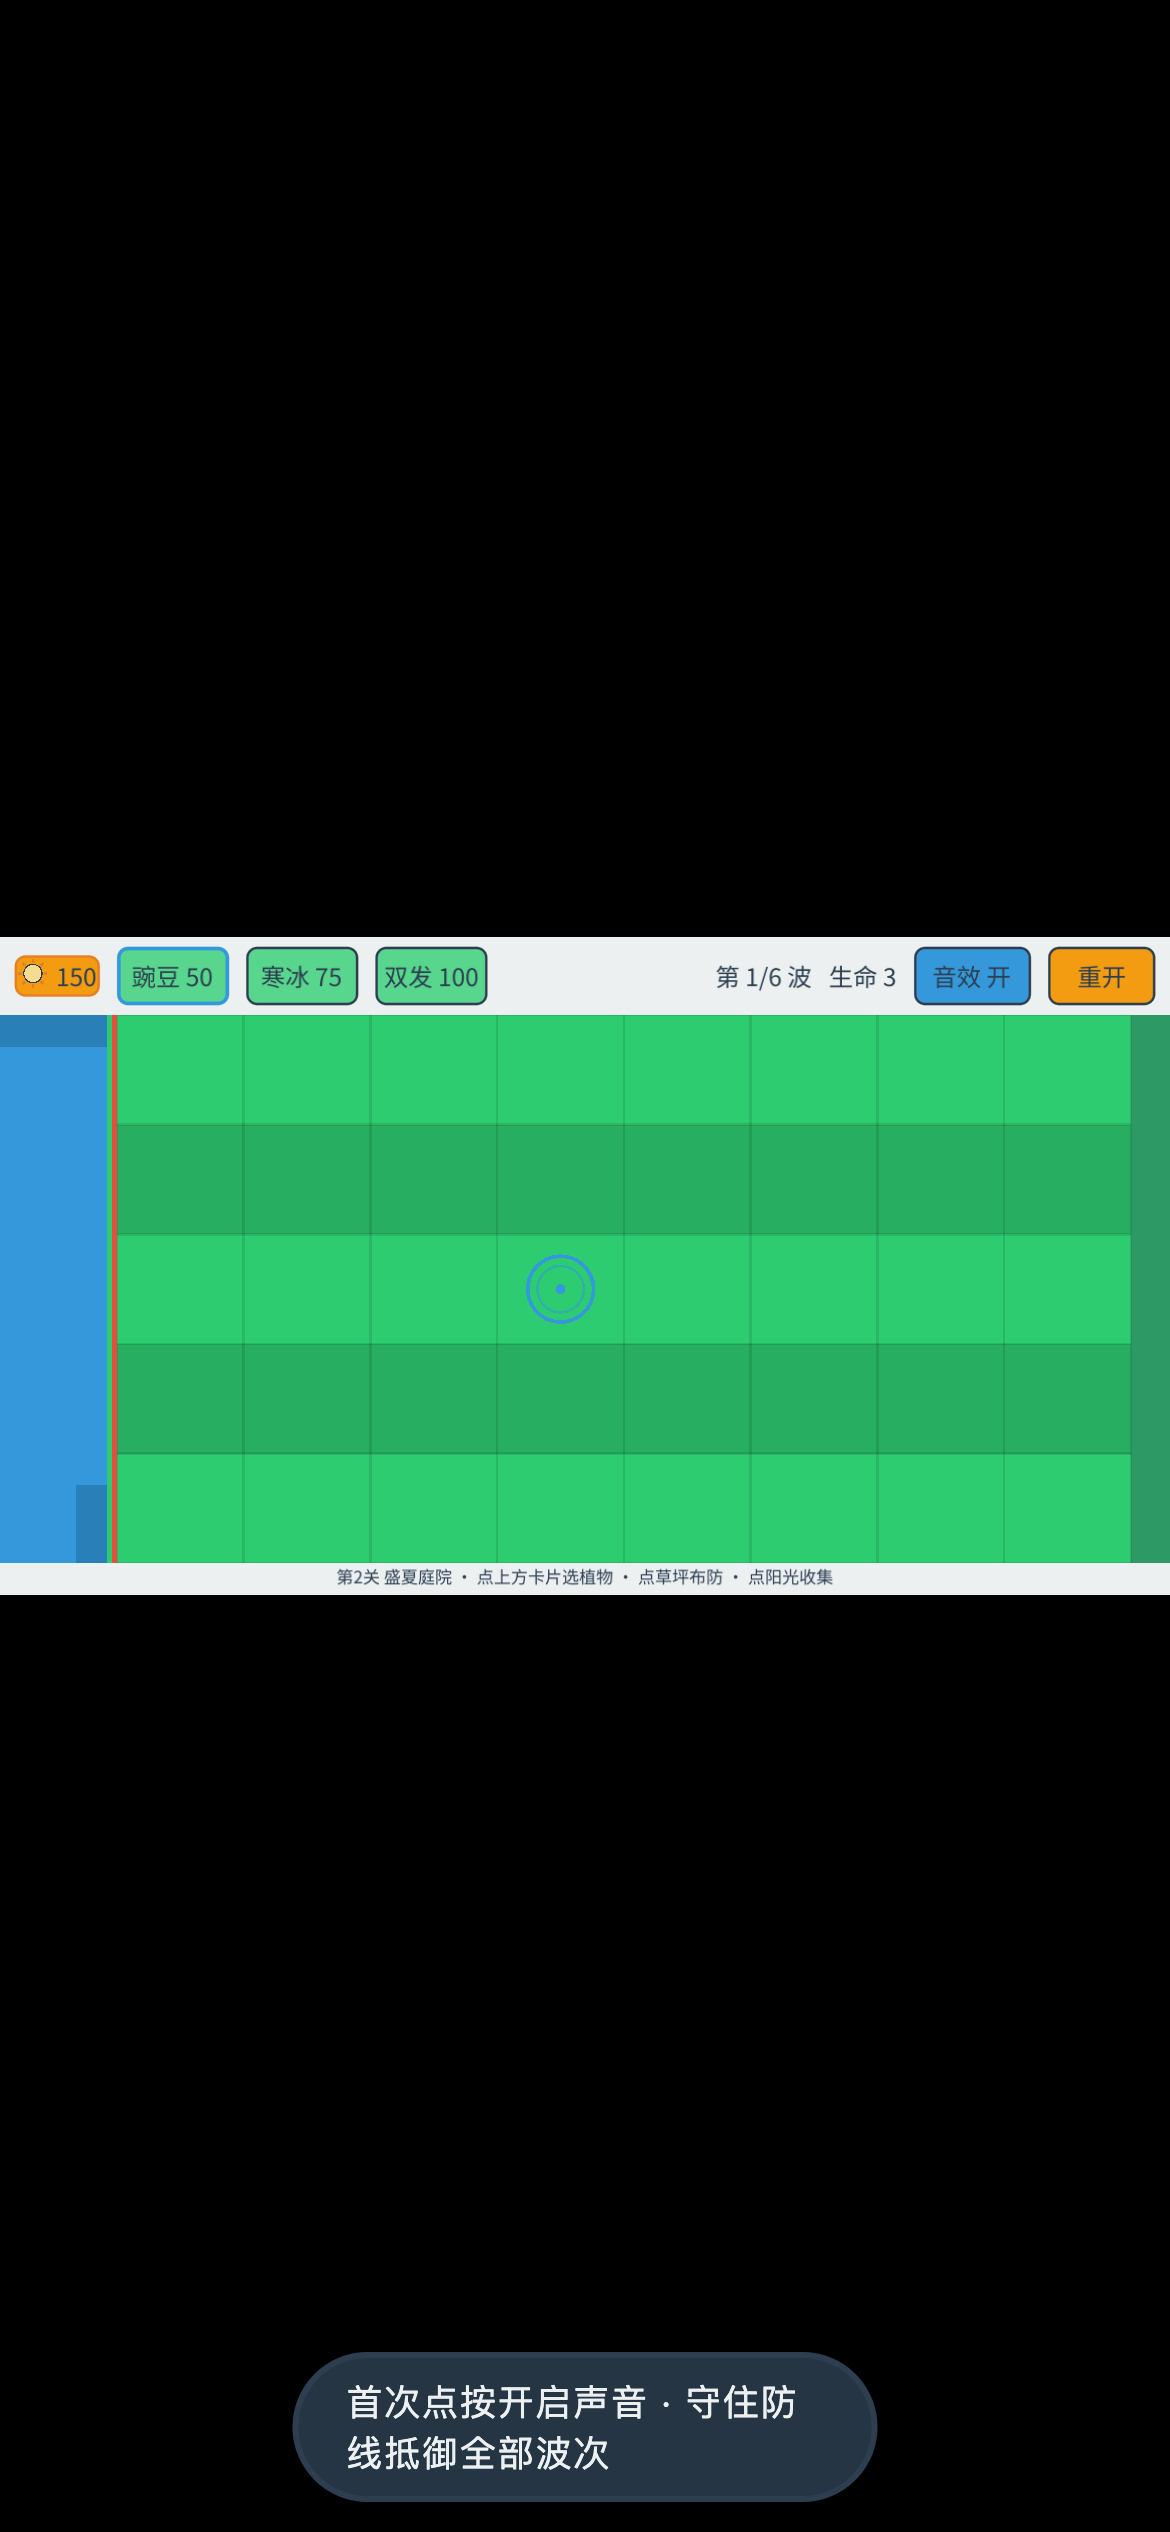
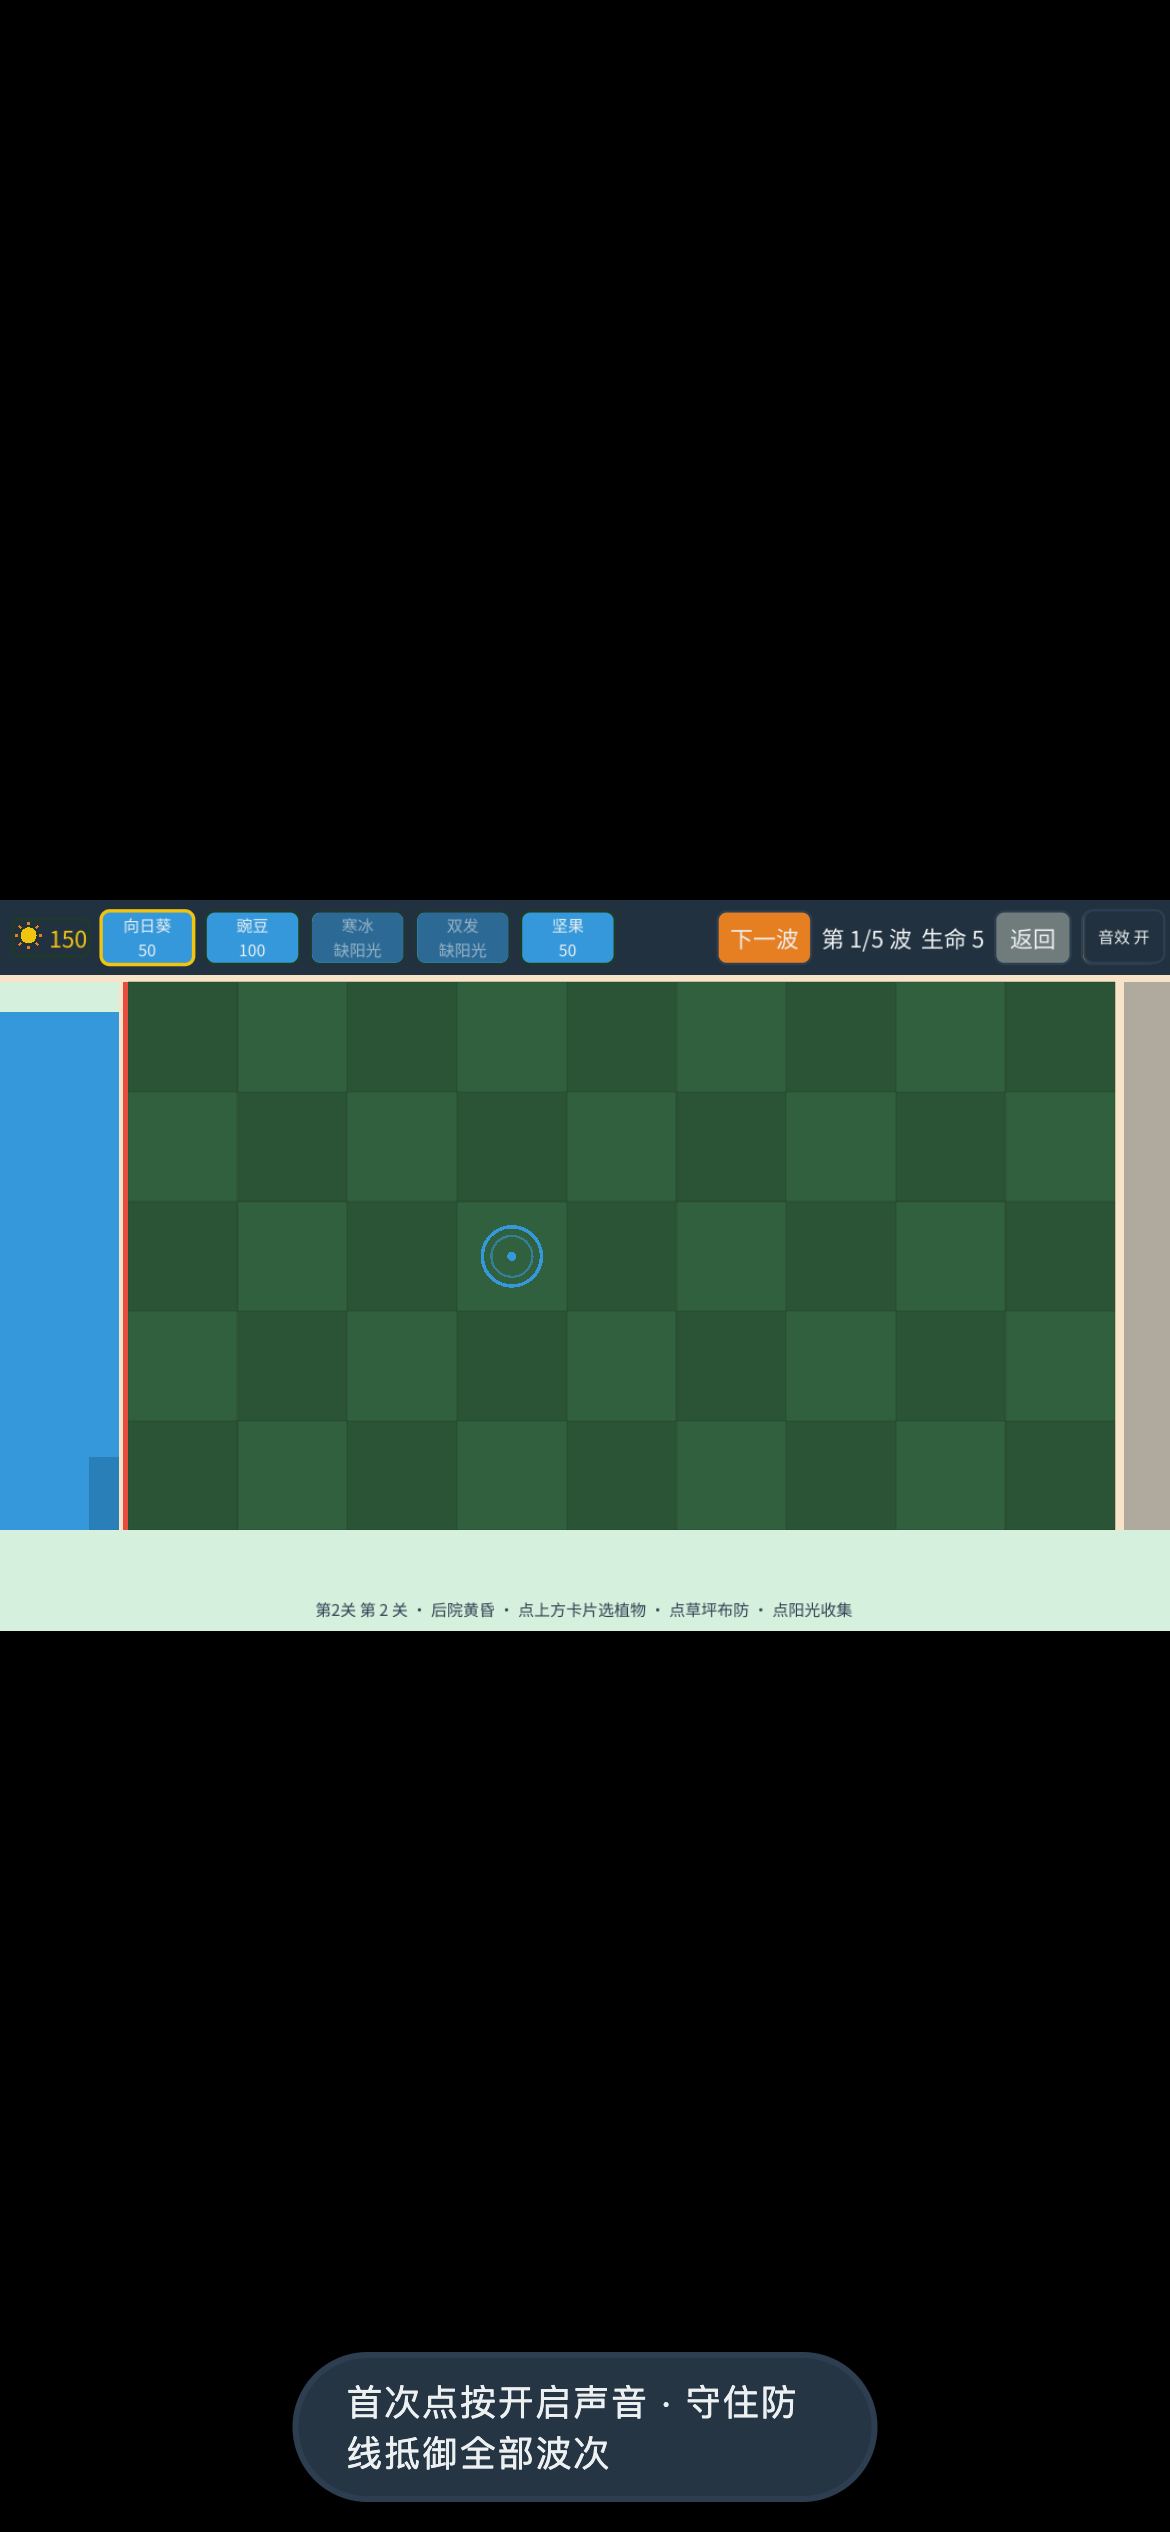
chore(qa): v9 部署（4b34bf1→cmvxu498j000gm9z6f6dtftuy）双门禁证据 + 音频契约线上实证
- 本地四门禁全绿：PREFLIGHT 15 类 / GODOT_SMOKE 17 项（216 帧）/ FUZZ seed=20260913 / PLAYTEST 3 局
  （fb=227/248/238，最长窗 0.38s）
- AppHost v9 部署 @ 分支 4b34bf1（gitRef 绑定目标分支）：
  线上 index.pck sha256 529f441c… 与仓库构建逐字节一致（资产通道 gzip+b64 解码复算）
- MOBILE_SMOKE: PASS 11 项全绿（390×844 移动仿真 --project 完全口径，fps 45，零 console 错误），
  证据 report.json + 三张分阶段截图落 qa/mobile/
- 音频解锁契约线上实证（audio-contract.json）：手势后 __audioDebug() = {unlocked:true,
  bgmPlaying:true, muted:false}，worklet 资产通道加载成功 —— spec audio.audioContextUnlock
  machineCheck 全链路成立
- playtest 阈值校准披露：first_reward -1（v2 收集制经济下最早可得阳光 10s，原 10s 阈值
  设计性不可达；正反馈由 fb gap≤10s + 密度≥2 硬判），详见 qa/mobile/ROUND-v9-SUMMARY.md

Changed region(s): [[0.0, 0.3432, 1.0, 0.6552]]

diff --git a/games/myrdplaygrou/qa/mobile/ROUND-v9-SUMMARY.md b/games/myrdplaygrou/qa/mobile/ROUND-v9-SUMMARY.md
@@ -1,0 +1,52 @@
+# v9 部署与双门禁证据摘要（spec v2 迭代轮）
+
+> 本轮：implement（spec v2 全量对齐）→ deploy（AppHost v9）→ playtest（mobile-web-smoke 全绿）。
+> 证据随仓库提交：本目录 report.json + 三张分阶段截图 + audio-contract.json。
+
+## 部署身份（2026-11-01）
+
+- deployment id：`cmvxu498j000gm9z6f6dtftuy`（**v9 running**，supersede v8 `cmvxpxci90049m905f47jfkaz`）
+- commit：`4b34bf1` @ 分支 `myrd/pvz-web-goal-cmvxjycvn001zm905jnwpyliv`（部署 gitRef 绑定目标分支）
+- liveUrl：https://leomac-studio.tail49399e.ts.net/apps/myrdplaygrou/（免登录直开；/health 返回
+  `{"ok":true,"app":"myrdplaygrou","title":"植物人大战僵尸-网页版"}`）
+- **字节级证实**：线上 `index.pck`（资产通道 gzip+b64 解码）5,571,392 B，
[1 lines of base64/hex data omitted]
+  ＝ 仓库构建（games/myrdplaygrou/export/web/index.pck @4b34bf1）逐字节一致。
+- 体积基线：index.wasm 35.4MB（release 未压缩）+ index.pck 5.57MB（v8 3.9MB → +1.6MB，
+  来源 = BGM 18.5s→55.4s 无缝循环重生成）+ index.js 331KB + worklet 7.1KB。
+
+## 本地门禁（verify.sh 四件套，全绿）
+
+| 门禁 | 结果 | 明细 |
+|---|---|---|
+| preflight | PASS 15 类 | P13b 拦下静音按钮 ♪ 字形缺字（已改文案）—— 机判有效样本 |
+| GODOT_SMOKE | PASS 240 帧内 216 帧 | 17 项断言：内容表/难度平缓/WCAG 对比度逐对/音频契约/布防扣费/冷却/取消选卡/射击/掉落收集/向日葵生产收集/失败(5 命)/重开/下一波/胜利/键位 1-5/提示淡出/调参协议 |
+| GODOT_FUZZ | PASS seed=20260913 | 6 批 239 帧对抗输入，零脚本错误 |
+| GODOT_PLAYTEST | PASS 3 局×900 帧 | fb=227/248/238，最长反馈窗 0.38s（阈值 10s） |
+
+## 阈值校准披露（tests/playtest.json）
+
+`first_reward_seconds_max` 10 → **-1（显式关闭）**：v2 阳光经济改为「只经天降(12s)/向日葵(10s)/
+击杀掉落三途径、全部点按收集」，score 事件语义 = 玩家主动收集；**最早可得阳光在 10s**，
+原 10s 阈值对人类玩家也结构不可达（设计性不可达，非玩法缺陷）。正反馈及时性改由
+`feedback_gap ≤10s`（实测 0.38s）与 `feedback_events ≥2`（实测 227+）继续硬判。
+bot 随机点按不保证命中拾取物，score=0 属预期（三局一致，非回归）。
+
+## 移动端门禁（mobile-web-smoke，MOBILE_SMOKE: PASS 11 项全绿）
+
+- 口径：headless Chrome 移动仿真 390×844 / DPR 3 / iPhone UA，`--project` 完全口径
+- checkedAt = 2026-11-01T13:01:24Z；fps 45（软渲染口径 ≥8）；tapDiff=117；视口零溢出；
+  console 零错误；网络全通；渲染/动画/触摸管线/触摸响应全绿；摇杆按规则裁撤（点按类玩法）
+- 音频解锁契约（spec machineCheck 实证，audio-contract.json）：
+  `window.__audioDebug()` = `{unlocked: true, muted: false, bgmPlaying: true, addModules: 1,
+  state: "running"}` —— 手势解锁后 AudioContext running、BGM 起播、worklet 经资产通道加载成功。
+  inputProfile 同步取证：uaTouch=true → 触屏措辞路径生效。
+
+## 本轮修复的 4 条用户反馈缺陷对应
+
+| 缺陷（create_bug） | 对应实现 | 机判 |
+|---|---|---|
+| 无音效 | BGM 55s 循环 + 8 类契约音效齐 + 常驻静音开关 + 手势解锁契约实证 | smoke 音频契约 + mobile audio-contract |
+| 植物与背景同色不可见 | 格底低饱和深绿棋盘 + 主体 2px 描边 + 投影 | smoke WCAG 对比度逐对 ≥3:1（回归闸） |
+| 僵尸种类不足 | 4 类 spec 绝对数值（walker/runner/conehead/buckethead）+ 逐关编制加重 | smoke 内容表 + 难度平缓断言 |
+| 植物种类不足且缺向日葵 | 5 张卡（+阳光花/坚果墙），向日葵生产+点收 | smoke 生产/收集/冷却/取消选卡断言 |
